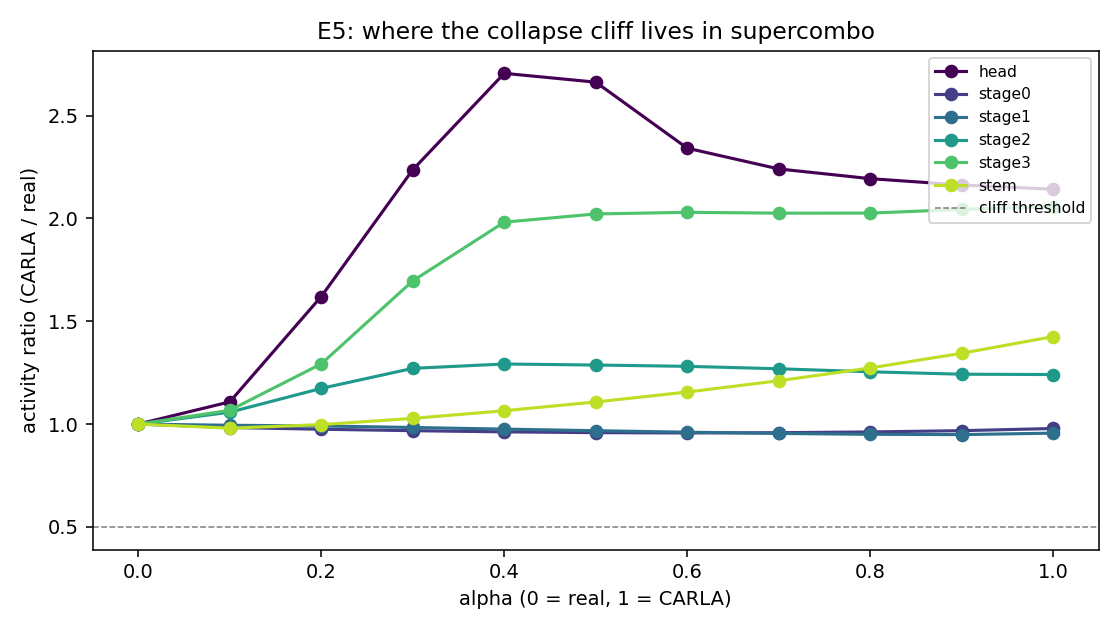
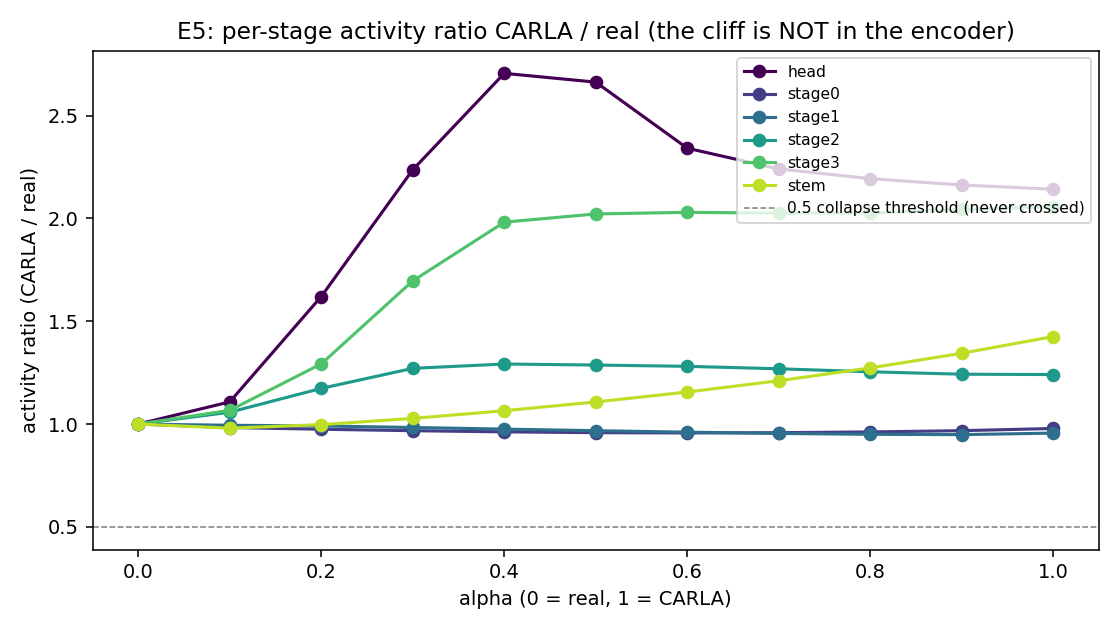
E5: fix figure title + add mean-shift column (encoder DC shifts despite preserved variation)

Changed region(s): [[0.6562, 0.0905, 0.9688, 0.3619], [0.1562, 0.0302, 0.9062, 0.0603]]

diff --git a/src/e5_layer.py b/src/e5_layer.py
@@ -65,6 +65,18 @@ def per_layer_activity_ratio(real: np.ndarray, carla: np.ndarray) -> float:
     return float(cstd / rstd) if rstd > 1e-12 else float("nan")
 
 
+def per_layer_mean_shift(real: np.ndarray, carla: np.ndarray) -> float:
+    """Ratio of absolute-mean activations, CARLA / real.
+    Companion to per_layer_activity_ratio: activity_ratio captures temporal
+    variation only; this captures DC shift. A layer can have activity_ratio
+    ~ 1.0 while its features distribute around a very different mean."""
+    r = real.reshape(len(real), -1)
+    c = carla.reshape(len(carla), -1)
+    rm = float(np.abs(r.mean(axis=0)).sum())
+    cm = float(np.abs(c.mean(axis=0)).sum())
+    return float(cm / rm) if rm > 1e-12 else float("nan")
+
+
 def save_cache(path: Path, alphas: np.ndarray, per_layer: dict[str, np.ndarray]) -> None:
     path.parent.mkdir(parents=True, exist_ok=True)
     np.savez_compressed(path, alphas=alphas,
@@ -146,17 +158,21 @@ def collect_per_layer(alphas: np.ndarray, n_frames: int,
 # ---------------------------------------------------------------------------
 
 def _analyse(alphas: np.ndarray, per_layer: dict[str, np.ndarray]) -> dict:
-    """Per-layer activity ratio at each alpha (vs the alpha=0 / real baseline),
-    plus cliff alpha per layer."""
+    """Per-layer activity ratio + mean shift at alpha=1, plus cliff alpha
+    per layer. Activity ratio = temporal std(carla)/std(real); mean shift =
+    |mean|(carla) / |mean|(real). The first captures variation, the second
+    captures DC offset."""
     real_idx = 0
     ratios = {}
     cliffs = {}
+    mean_shifts = {}
     for name, arr in per_layer.items():
         r0 = arr[real_idx]
         per_alpha = [per_layer_activity_ratio(r0, arr[i]) for i in range(len(alphas))]
         ratios[name] = np.array(per_alpha)
         cliffs[name] = cliff_alpha(alphas, ratios[name])
-    return {"ratios": ratios, "cliffs": cliffs}
+        mean_shifts[name] = per_layer_mean_shift(r0, arr[-1])
+    return {"ratios": ratios, "cliffs": cliffs, "mean_shifts": mean_shifts}
 
 
 def _figure(alphas: np.ndarray, ratios: dict[str, np.ndarray], out: Path) -> None:
@@ -167,8 +183,8 @@ def _figure(alphas: np.ndarray, ratios: dict[str, np.ndarray], out: Path) -> Non
         ax.plot(alphas, r, marker="o", lw=1.6, color=c, label=name)
     ax.set_xlabel("alpha (0 = real, 1 = CARLA)")
     ax.set_ylabel("activity ratio (CARLA / real)")
-    ax.set_title("E5: where the collapse cliff lives in supercombo")
-    ax.axhline(0.5, color="grey", lw=0.8, ls="--", label="cliff threshold")
+    ax.set_title("E5: per-stage activity ratio CARLA / real (the cliff is NOT in the encoder)")
+    ax.axhline(0.5, color="grey", lw=0.8, ls="--", label="0.5 collapse threshold (never crossed)")
     ax.legend(fontsize=8, loc="upper right")
     fig.tight_layout()
     out.parent.mkdir(parents=True, exist_ok=True)
@@ -176,12 +192,19 @@ def _figure(alphas: np.ndarray, ratios: dict[str, np.ndarray], out: Path) -> Non
 
 
 def _write_results(alphas: np.ndarray, ratios: dict[str, np.ndarray],
-                   cliffs: dict[str, float], out: Path) -> None:
+                   cliffs: dict[str, float], mean_shifts: dict[str, float],
+                   out: Path) -> None:
     lines = ["# E5 Results: Layer-Localized Collapse", ""]
-    lines.append("| layer | cliff alpha | ratio @ alpha=1 |")
-    lines.append("|---|---|---|")
+    lines.append("Activity ratio = sum of per-element temporal std, CARLA / real "
+                 "(captures temporal variation).")
+    lines.append("Mean shift = sum |mean|(CARLA) / sum |mean|(real) at alpha=1 "
+                 "(captures DC offset).")
+    lines.append("")
+    lines.append("| layer | cliff alpha | activity ratio @ alpha=1 | mean shift @ alpha=1 |")
+    lines.append("|---|---|---|---|")
     for name in ratios:
-        lines.append(f"| {name} | {cliffs[name]:.3f} | {ratios[name][-1]:.4f} |")
+        lines.append(f"| {name} | {cliffs[name]:.3f} | "
+                     f"{ratios[name][-1]:.4f} | {mean_shifts[name]:.4f} |")
     out.write_text("\n".join(lines) + "\n")
 
 
@@ -208,7 +231,8 @@ def main(argv: list[str] | None = None) -> int:
 
     a = _analyse(alphas, per_layer)
     _figure(alphas, a["ratios"], Path("report/figures/e5_layer_localization.png"))
-    _write_results(alphas, a["ratios"], a["cliffs"], Path("report/e5_results.md"))
+    _write_results(alphas, a["ratios"], a["cliffs"], a["mean_shifts"],
+                   Path("report/e5_results.md"))
     print("E5 done:", a["cliffs"])
     return 0
 

diff --git a/tests/test_e5.py b/tests/test_e5.py
@@ -87,3 +87,21 @@ def test_e5_cache_reproduces():
         assert arr.shape[0] == len(alphas)
         # ratio of real to itself must be 1.0 (sanity check on the metric)
         assert abs(per_layer_activity_ratio(arr[0], arr[0]) - 1.0) < 1e-5
+
+
+from src.e5_layer import per_layer_mean_shift
+
+
+def test_per_layer_mean_shift_endpoints():
+    real = np.zeros((50, 4, 4), dtype=np.float32)
+    real[:, 0, 0] = 1.0  # nonzero mean
+    carla = real * 2.0
+    assert abs(per_layer_mean_shift(real, carla) - 2.0) < 1e-6
+    assert abs(per_layer_mean_shift(real, real.copy()) - 1.0) < 1e-6
+
+
+def test_per_layer_mean_shift_zero_real_returns_nan():
+    real = np.zeros((50, 4, 4), dtype=np.float32)
+    carla = np.ones((50, 4, 4), dtype=np.float32)
+    import math
+    assert math.isnan(per_layer_mean_shift(real, carla))

diff --git a/README.md b/README.md
@@ -33,7 +33,7 @@ Nothing the model emits would tell a downstream monitor it has stopped perceivin
 | **E2** internal OOD | the model's 512-D recurrent feature vector collapses to **0.00001×** the real spread: 219 distinct sim frames map to one frozen point |
 | **E3** silent failure | outputs lose **~99.5%** of their activity, but predicted uncertainty rises only 1.2-1.8× and **0%** of sim frames exceed the model's normal real-driving uncertainty |
 | **E4** cliff, not gradient | blending CARLA into a real frame, output activity first balloons to **6.3×** the real baseline (ghosted-input thrash), then collapses in a **hard cliff** at ~78% CARLA (transition width **0.015**); predicted uncertainty never spikes through it |
-| **E5** the encoder is fine | activity ratio in every vision-encoder stage (stem, stages.0-3, head) stays at or above the real-driving baseline through the full alpha sweep (minimum 0.96, several layers amplify 1.4-2.1x on sim input). The collapse in E1/E2 is not the encoder failing; it is downstream of the encoder, in the recurrent / policy stack that aggregates these stable features into a degenerate hidden state |
+| **E5** the encoder is fine (variation-wise) | per-stage temporal activity ratio (CARLA / real) stays at or above the real baseline through the full alpha sweep (minimum 0.96, several layers amplify 1.4-2.1x). Feature DC offsets do shift on CARLA input (stem \|mean\| 1.24x, head \|mean\| 1.33x), so the encoder produces differently-distributed but temporally-active features. The collapse in E1/E2 is downstream of the encoder, in the recurrent / policy stack that aggregates those features into a degenerate hidden state |
 | **E6** a monitor would catch the OOD stimulus | a 1st-percentile threshold on the rolling spread of the model's own 512-D recurrent feature vector fires on >50% of CARLA-blended frames at alpha = 0.550, well before the E4 output-collapse cliff at alpha ~ 0.78. The signature E3 said outputs hide is recoverable from internals. Leave-one-corpus-out across the two real-driving segments gives 1.03% mean false-positive rate (2.07% max); a larger real corpus is needed before this number can be trusted as a deployment claim |
 
 ![Hero: the four findings at a glance](report/figures/hero.png)
@@ -156,6 +156,16 @@ activity tracked alongside the output heads. The result inverts the
 naive expectation: across all six encoder layers, activity on CARLA input
 stays at or above the real-driving baseline. Several stages amplify
 (stage3 2.06x, head 2.14x). Nothing in the encoder collapses.
+
+The "encoder is fine" claim is specifically about temporal variation. The
+absolute mean magnitudes do shift on CARLA: the stem layer's mean magnitude
+is 1.24x the real-driving baseline, and the post-pool head feature vector's
+mean is 1.33x. So the encoder is producing features that are differently
+distributed (DC shifts) but fully temporally active (std preserved). The
+collapse mechanism in E1/E2 is therefore not "the encoder went quiet" but
+"the encoder hands a distributionally different but variation-rich feature
+to the recurrent state, which then collapses anyway." Reported as both
+columns in `report/e5_results.md`.
 
 That means the failure measured in E1 (output heads collapse) and E2 (512-D
 recurrent feature vector collapses) is **not** the vision encoder breaking.

diff --git a/report/e5_results.md b/report/e5_results.md
@@ -1,10 +1,13 @@
 # E5 Results: Layer-Localized Collapse
 
-| layer | cliff alpha | ratio @ alpha=1 |
-|---|---|---|
-| head | nan | 2.1416 |
-| stage0 | nan | 0.9785 |
-| stage1 | nan | 0.9560 |
-| stage2 | nan | 1.2408 |
-| stage3 | nan | 2.0561 |
-| stem | nan | 1.4254 |
+Activity ratio = sum of per-element temporal std, CARLA / real (captures temporal variation).
+Mean shift = sum |mean|(CARLA) / sum |mean|(real) at alpha=1 (captures DC offset).
+
+| layer | cliff alpha | activity ratio @ alpha=1 | mean shift @ alpha=1 |
+|---|---|---|---|
+| head | nan | 2.1416 | 1.3267 |
+| stage0 | nan | 0.9785 | 0.9386 |
+| stage1 | nan | 0.9560 | 0.9818 |
+| stage2 | nan | 1.2408 | 0.8440 |
+| stage3 | nan | 2.0561 | 0.9607 |
+| stem | nan | 1.4254 | 1.2352 |
